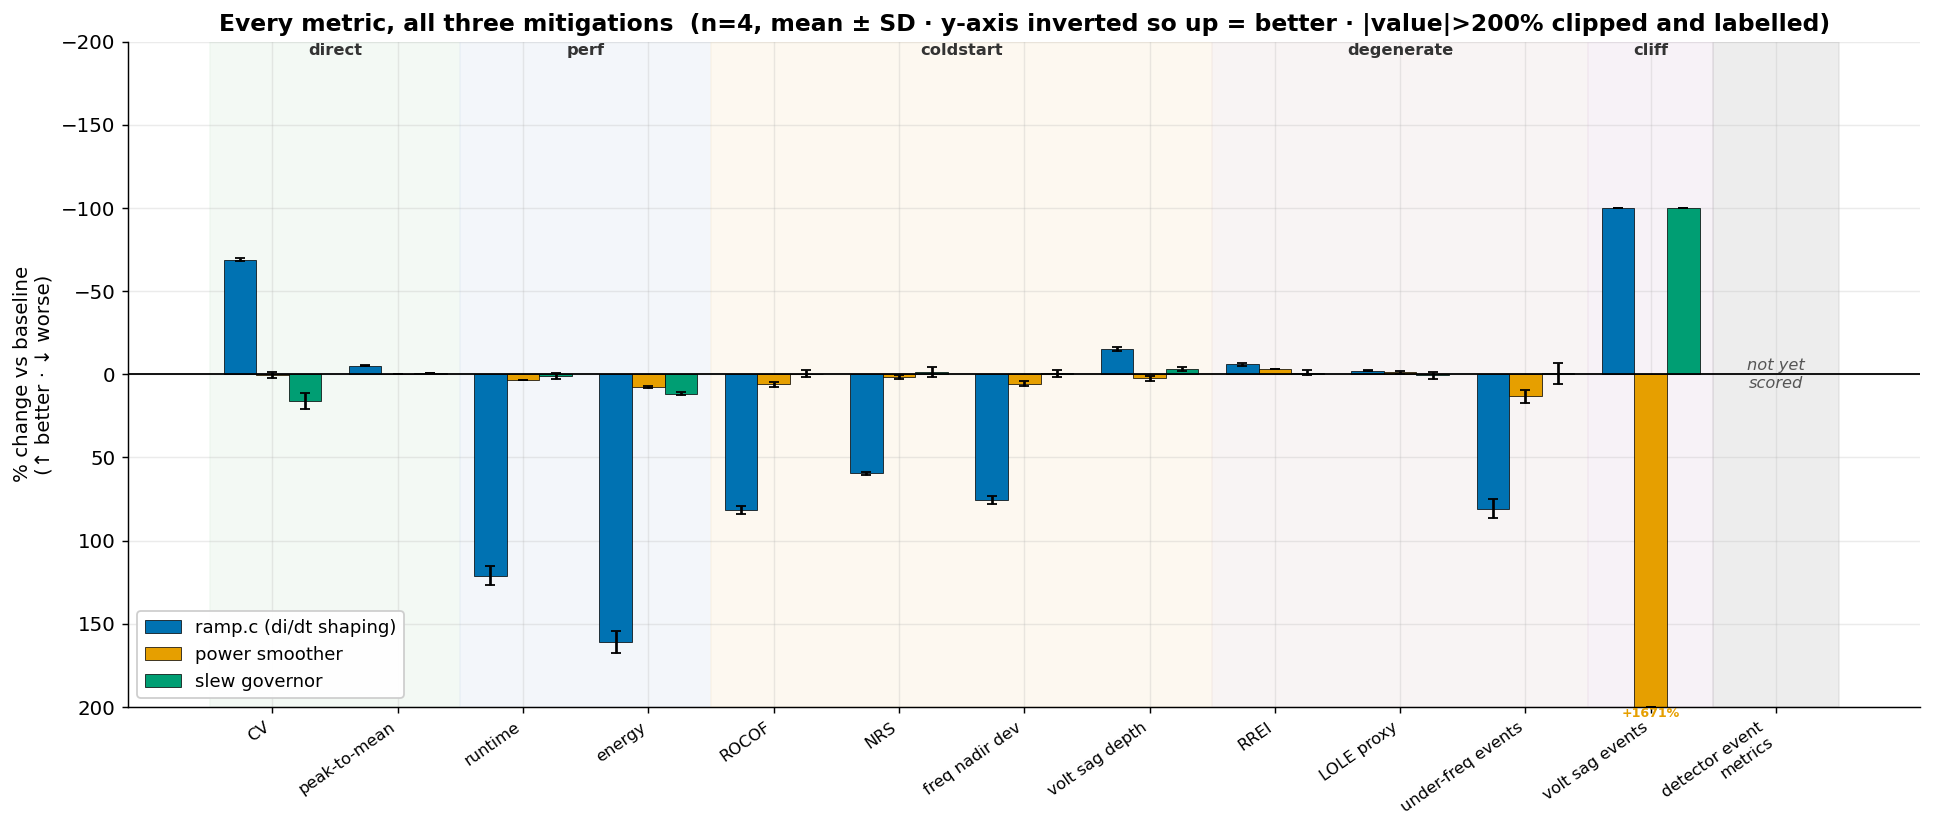
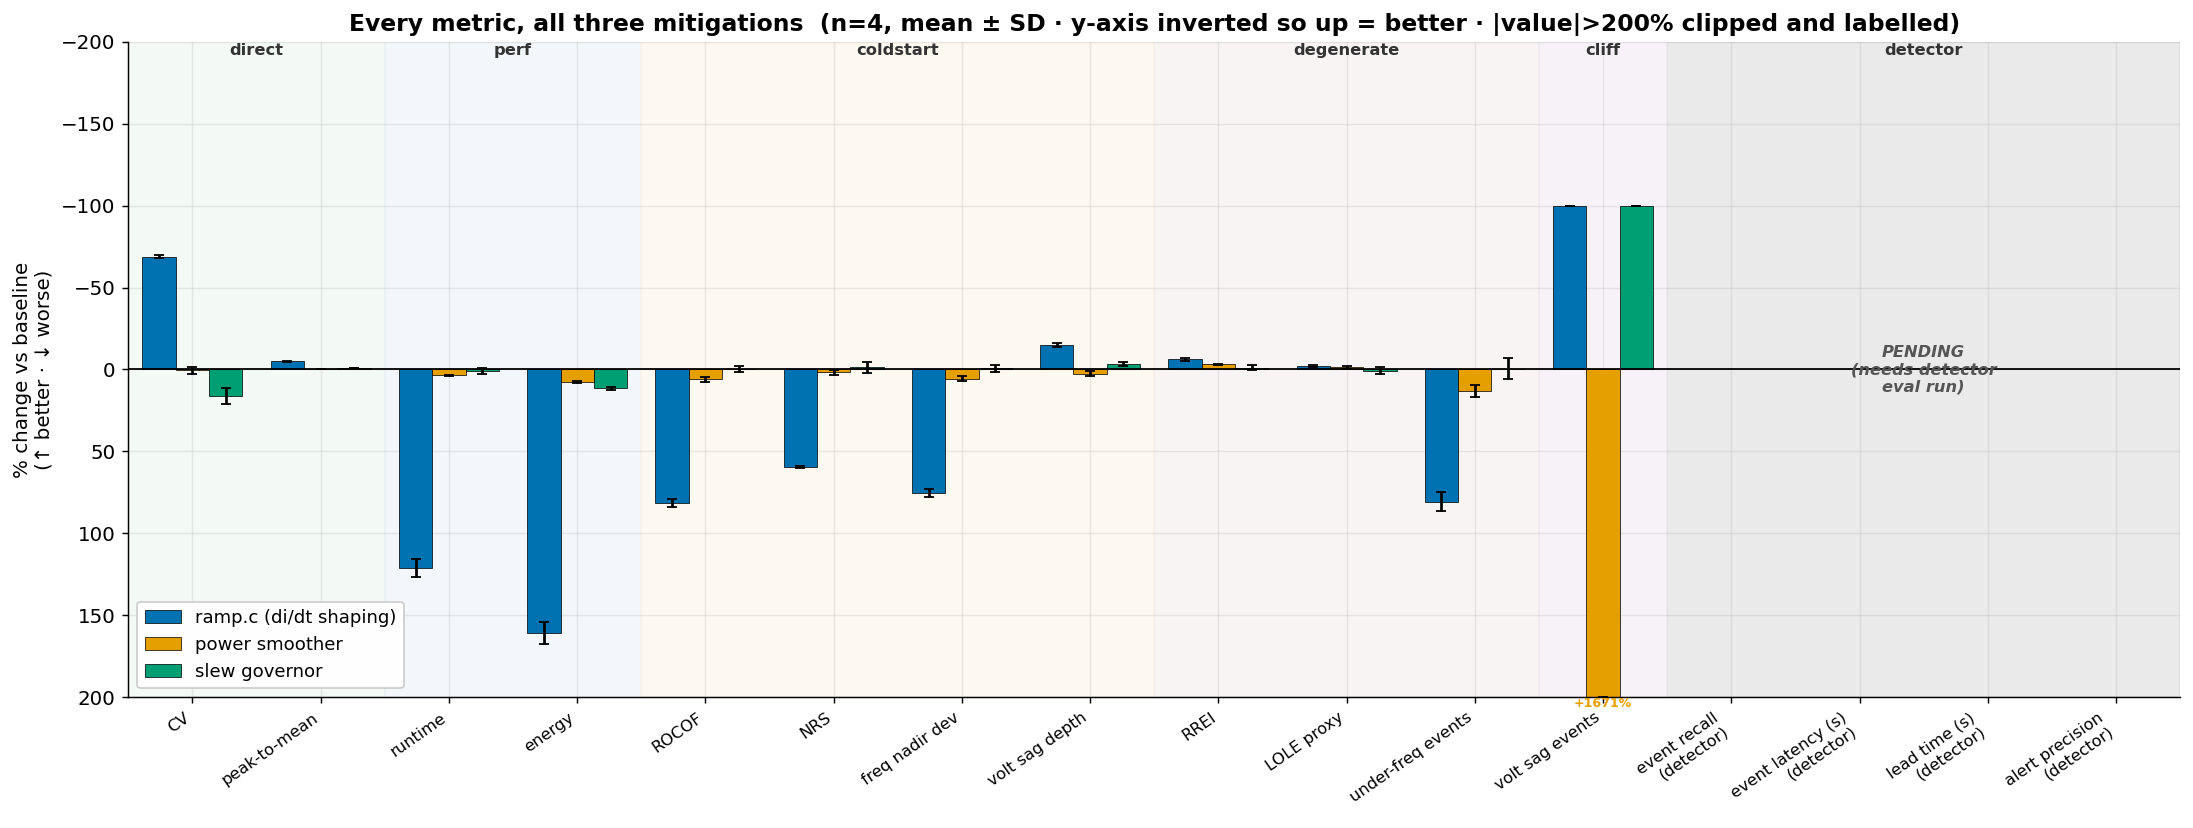
figures: name detector-pending tier; add tradeoff/reproducibility/distribution/PCC
all_metrics.png now names the four pending detector metrics as an explicit
PENDING tier (rank_all.py + full_ranking.csv), and four more paper figures are
added from existing data: tradeoff (cost vs benefit scatter), reproducibility
(4 runs as dots), distribution (power histograms baseline vs ramp.c), and
pcc_timeseries (fleet PCC power, post-UPS).

diff --git a/grid-simulation/figures/make_figures.py b/grid-simulation/figures/make_figures.py
@@ -193,13 +193,15 @@ def fig_all_metrics():
     lower-is-better convention reads as up=good. Outliers past the cap are
     drawn to the edge and labelled. Detector metrics are shown as an explicit
     'not yet scored' slot rather than omitted."""
-    rows = list(csv.DictReader(open(ROOT / "data/summary/full_ranking.csv")))
+    allrows = list(csv.DictReader(open(ROOT / "data/summary/full_ranking.csv")))
     order = ["direct", "perf", "coldstart", "degenerate", "cliff"]
+    rows = [r for r in allrows if r["trust"] in order]          # scored grid+cost
+    det = [r for r in allrows if r["trust"] == "detector"]      # named but pending
     rows.sort(key=lambda r: order.index(r["trust"]))
-    labels = [r["metric"] for r in rows] + ["detector event\nmetrics"]
+    labels = [r["metric"] for r in rows] + [f"{r['metric']}\n(detector)" for r in det]
     n = len(labels)
     CAP = 200.0
-    fig, ax = plt.subplots(figsize=(15, 6.5))
+    fig, ax = plt.subplots(figsize=(17, 6.5))
     width = 0.26
     for i, m in enumerate(MITIG):
         xs = [j + (i - 1) * width for j in range(len(rows))]
@@ -219,11 +221,15 @@ def fig_all_metrics():
                 ax.annotate(f"{true:+.0f}%", (x, v), ha="center",
                             va="top" if v > 0 else "bottom", fontsize=7,
                             color=C[m], fontweight="bold")
-    # detector slot: grey hatch, no data
-    dx = len(rows)
-    ax.axvspan(dx - 0.5, dx + 0.5, color="#bbbbbb", alpha=0.25)
-    ax.text(dx, 0, "not yet\nscored", ha="center", va="center",
-            fontsize=9, color="#555", style="italic")
+    # detector tier: named metrics, greyed, marked pending (need a mycroft eval)
+    if det:
+        lo, hi = len(rows), len(rows) + len(det) - 1
+        ax.axvspan(lo - 0.5, hi + 0.5, color="#bbbbbb", alpha=0.30, zorder=0)
+        ax.text((lo + hi) / 2, 0, "PENDING\n(needs detector\neval run)",
+                ha="center", va="center", fontsize=9, color="#555",
+                style="italic", fontweight="bold")
+        ax.text((lo + hi) / 2, -CAP * 0.96, "detector", ha="center",
+                fontsize=9, color="#333", fontweight="bold")
     # trust-tier shading + labels
     tiers = {}
     for j, r in enumerate(rows):
@@ -236,6 +242,7 @@ def fig_all_metrics():
                 color="#333", fontweight="bold")
     ax.axhline(0, color="black", lw=1)
     ax.set_xticks(range(n)); ax.set_xticklabels(labels, rotation=35, ha="right", fontsize=9)
+    ax.set_xlim(-0.5, n - 0.5)                          # include the detector tier
     ax.set_ylim(-CAP, CAP); ax.invert_yaxis()          # negative (better) points UP
     ax.set_ylabel("% change vs baseline\n(↑ better · ↓ worse)")
     ax.legend(loc="lower left", fontsize=10, framealpha=0.95)
@@ -246,6 +253,107 @@ def fig_all_metrics():
     fig.savefig(FIG / "all_metrics.png"); plt.close(fig)
 
 
+SUMMARY = ROOT / "data" / "summary"
+RUNS_DIR = ROOT / "data" / "runs"
+RESULTS = ROOT / "results"
+
+
+# ── Figure: run-to-run reproducibility (each of the 4 runs as a dot) ───────────
+def fig_reproducibility():
+    """Each dot is one collection's mean-over-workloads; the bar is mean ± SD.
+    Shows CV is tight (robust) while runtime/energy carry the spread."""
+    rows = list(csv.DictReader(open(SUMMARY / "matrix.csv")))
+    metrics = [("cv_pct", "CV (flatness)"), ("runtime_pct", "runtime"),
+               ("energy_pct", "energy")]
+    fig, axes = plt.subplots(1, 3, figsize=(13, 4.5))
+    for ax, (col, title) in zip(axes, metrics):
+        for i, m in enumerate(MITIG):
+            byrun = {}
+            for r in rows:
+                if (r.get("smoother") or r["mitigation"]) == m:
+                    byrun.setdefault(r["run"], []).append(float(r[col]))
+            vals = [statistics.mean(byrun[k]) for k in sorted(byrun)]
+            xs = [i + (j - (len(vals) - 1) / 2) * 0.07 for j in range(len(vals))]
+            ax.scatter(xs, vals, color=C[m], s=48, zorder=3,
+                       edgecolor="black", linewidth=0.4)
+            mean, sd = statistics.mean(vals), statistics.pstdev(vals)
+            ax.errorbar(i, mean, yerr=sd, fmt="_", color="black",
+                        capsize=7, markersize=22, elinewidth=1.4, zorder=2)
+        ax.axhline(0, color="black", lw=0.8)
+        ax.set_xticks(range(len(MITIG)))
+        ax.set_xticklabels(["ramp.c", "smoother", "gov"], rotation=20, ha="right")
+        ax.set_title(title, fontweight="bold"); ax.set_ylabel("% vs baseline")
+    fig.suptitle("Run-to-run reproducibility (n=4): each dot is one collection · "
+                 "CV is tight, cost is the noisy dimension",
+                 fontsize=13, fontweight="bold", y=1.02)
+    fig.tight_layout(); fig.savefig(FIG / "reproducibility.png"); plt.close(fig)
+
+
+# ── Figure: power distribution flattens under ramp.c ──────────────────────────
+def fig_distribution(run="run1"):
+    """Histogram of single-node power: baseline (spread) vs ramp.c plateau
+    (tight). The visual behind the CV-reduction number."""
+    fig, axes = plt.subplots(1, 3, figsize=(13, 4.2))
+    for ax, w in zip(axes, WORKLOADS):
+        bp = [p for _, p in trim_load(RUNS_DIR / run / f"{w}_baseline.csv")]
+        rr = trim_load(RUNS_DIR / run / f"{w}_rampc.csv")
+        a, b, _, _ = detect_window(rr)
+        rp = [p for t, p in rr if a <= t <= b]        # plateau only
+        ax.hist(bp, bins=45, color=C["baseline"], alpha=0.6, density=True,
+                label="baseline")
+        ax.hist(rp, bins=45, color=C["rampc"], alpha=0.6, density=True,
+                label="ramp.c (plateau)")
+        ax.set_title(w, fontweight="bold")
+        ax.set_xlabel("single-node power (W)")
+        if w == WORKLOADS[0]:
+            ax.set_ylabel("density"); ax.legend(fontsize=9)
+    fig.suptitle("Power distribution flattens under ramp.c — baseline is spread, "
+                 "ramp.c is a tight peak (run1)",
+                 fontsize=13, fontweight="bold", y=1.0)
+    fig.tight_layout(); fig.savefig(FIG / "distribution.png"); plt.close(fig)
+
+
+# ── Figure: cost vs benefit scatter (the one-glance summary) ──────────────────
+def fig_tradeoff(sb):
+    fig, ax = plt.subplots(figsize=(7.5, 6))
+    for m in MITIG:
+        x, xe = float(sb[m]["energy_pct"]), float(sb[m]["energy_pct_sd"])
+        y, ye = -float(sb[m]["cv_pct"]), float(sb[m]["cv_pct_sd"])   # benefit
+        ax.errorbar(x, y, xerr=xe, yerr=ye, fmt="o", color=C[m], ms=13,
+                    capsize=4, mec="black", zorder=3)
+        ax.annotate(LABEL[m], (x, y), textcoords="offset points",
+                    xytext=(10, 8), fontsize=10, fontweight="bold")
+    ax.axhline(0, color="grey", lw=0.9, ls="--")
+    ax.axvline(0, color="grey", lw=0.9)
+    ax.set_xlabel("energy cost  (% vs baseline)  →  more expensive")
+    ax.set_ylabel("flatness benefit  (% CV reduction)  →  better")
+    ax.set_title("Cost vs benefit: only ramp.c buys flatness — and it pays for it",
+                 fontweight="bold", fontsize=12)
+    fig.tight_layout(); fig.savefig(FIG / "tradeoff.png"); plt.close(fig)
+
+
+# ── Figure: fleet PCC power (post-UPS) — what the grid actually sees ───────────
+def fig_pcc(run="1"):
+    fig, axes = plt.subplots(3, 1, figsize=(11, 8))
+    for ax, w in zip(axes, WORKLOADS):
+        for cell, color, lab in [("baseline", C["baseline"], "baseline"),
+                                 ("rampc", C["rampc"], "ramp.c")]:
+            p = RESULTS / f"{w}_{cell}_r{run}_worst" / "S_PCC.csv"
+            if not p.exists():
+                continue
+            rows = [(float(r[0]), float(r[1])) for r in csv.reader(open(p)) if len(r) >= 2]
+            ax.plot([t for t, _ in rows], [v / 1e6 for _, v in rows],
+                    color=color, lw=1.0, label=lab)
+        ax.set_ylabel(f"{w}\nPCC power (MW)", fontweight="bold")
+        ax.legend(fontsize=9, loc="upper right", framealpha=0.85)
+    axes[-1].set_xlabel("time (s)")
+    fig.suptitle("Fleet PCC power (10,000 servers, post-15 s-UPS): the grid-facing "
+                 "signal — ramp.c flattens the ripple",
+                 fontsize=13, fontweight="bold", y=0.998)
+    fig.tight_layout(); fig.savefig(FIG / "pcc_timeseries.png"); plt.close(fig)
+
+
+
 if __name__ == "__main__":
     FIG.mkdir(exist_ok=True)
     sb, mat = read_scoreboard(), read_matrix()
@@ -254,4 +362,8 @@ if __name__ == "__main__":
     fig_overlays()
     fig_pipeline()
     fig_all_metrics()
+    fig_reproducibility()
+    fig_distribution()
+    fig_tradeoff(sb)
+    fig_pcc()
     print("wrote:", ", ".join(p.name for p in sorted(FIG.glob("*.png"))))

diff --git a/grid-simulation/analysis/rank_all.py b/grid-simulation/analysis/rank_all.py
@@ -6,7 +6,7 @@ ranks every metric the pipeline emits, per mitigation, mean +/- SD across the 4
 runs, with the winner marked and a trust tag so the reader knows which rankings
 mean something. Nothing is hidden -- but the tag says which to believe.
 
-    python3 analysis/rank_all.py           # -> data/summary/full_ranking.{csv,md}
+    python3 analysis/rank_all.py           # -> data/clean/summary/full_ranking.{csv,md}
     python3 analysis/rank_all.py --selfcheck
 
 Cost (runtime, energy) is the full untrimmed trace; everything else is the
@@ -38,14 +38,20 @@ METRICS = [
     ("under-freq events",  ("frequency", "under_freq_events_per_year"), "degenerate"),
     ("volt sag events",    ("voltage", "voltage_sag_events_per_yr"), "cliff"),
 ]
-TRUST_ORDER = ["direct", "perf", "coldstart", "degenerate", "cliff"]
+TRUST_ORDER = ["direct", "perf", "coldstart", "degenerate", "cliff", "detector"]
 TRUST_NOTE = {
     "direct": "computed straight from the signal — believe the ranking",
     "perf": "real cost (full trace)",
     "coldstart": "dominated by the model's t=0 cold start; needs WARMUP_S=45 to mean anything",
     "degenerate": "no signal — one t=0 exceedance per run makes it ~constant",
     "cliff": "count across a threshold both sides sit ~equal distance from",
+    "detector": "detection quality of usage_edge / RF — NOT YET SCORED "
+                "(needs a mycroft eval run with /proc/stat + onset labels; see RESULTS.md)",
 }
+# Named so the gap is explicit, not a silent omission. Filled by a detector
+# eval run (usage_edge.py / RF evaluator.py), which the power traces can't supply.
+DETECTOR_METRICS = ["event recall", "event latency (s)", "lead time (s)",
+                    "alert precision"]
 
 
 def energy_and_dur(csv_path):
@@ -97,6 +103,9 @@ def rank():
         cand = [(v[0], s) for s, v in per_mitig.items() if v[0] is not None]
         winner = min(cand)[1] if cand else None
         out.append((label, trust, per_mitig, winner))
+    # detector rows: named but unscored, so the scoreboard shows the gap
+    for label in DETECTOR_METRICS:
+        out.append((label, "detector", {m: (None, None) for m in MITIG}, None))
     out.sort(key=lambda r: TRUST_ORDER.index(r[1]))
     return out
 
@@ -112,8 +121,10 @@ def write_csv(rows, out):
         w.writerow(["metric", "trust", "winner"]
                    + [f"{m}_pct" for m in MITIG] + [f"{m}_sd" for m in MITIG])
         for label, trust, pm, winner in rows:
-            w.writerow([label, trust, winner or ""]
-                       + ["" if pm[m][0] is None else round(pm[m][0], 1) for m in MITIG]
+            win = "pending" if trust == "detector" else (winner or "")
+            w.writerow([label, trust, win]
+                       + ["pending" if trust == "detector" else
+                          ("" if pm[m][0] is None else round(pm[m][0], 1)) for m in MITIG]
                        + ["" if pm[m][1] is None else round(pm[m][1], 1) for m in MITIG])
 
 
@@ -132,10 +143,13 @@ def write_md(rows, out):
             last = trust
         cells = []
         for m in MITIG:
-            s = fmt(pm[m])
-            cells.append(f"**{s}**" if m == winner and pm[m][0] is not None else s)
-        L.append(f"| {label} | {trust} | " + " | ".join(cells)
-                 + f" | {winner or '—'} |")
+            if trust == "detector":
+                cells.append("_pending_")
+            else:
+                s = fmt(pm[m])
+                cells.append(f"**{s}**" if m == winner and pm[m][0] is not None else s)
+        win = "_pending_" if trust == "detector" else (winner or "—")
+        L.append(f"| {label} | {trust} | " + " | ".join(cells) + f" | {win} |")
     L += ["", "### Trust tags", ""]
     for t in TRUST_ORDER:
         L.append(f"- **{t}** — {TRUST_NOTE[t]}")

diff --git a/grid-simulation/figures/README.md b/grid-simulation/figures/README.md
@@ -6,7 +6,11 @@ Presentation figures, regenerated from checked-in data with Python + matplotlib
 | File | What it shows |
 |---|---|
 | `scoreboard.png` | The headline. Each mitigation's effect on CV, peak-to-mean, runtime, and energy vs baseline, with n=4 run-to-run error bars. ramp.c is the only one that flattens the load (−69% CV). |
-| `all_metrics.png` | **Every** metric (all 12 grid + cost) × 3 mitigations in one view, grouped by trust tier. Y-axis is inverted so the lower-is-better convention reads as **up = better**; outliers past ±200% are clipped and labelled. The detector-metrics slot is marked "not yet scored" (detector event metrics aren't computed from the power traces — see below). |
+| `tradeoff.png` | One-glance summary: cost (energy) vs benefit (CV reduction) scatter. ramp.c alone sits in the high-benefit corner; the other two are at/below zero benefit. |
+| `all_metrics.png` | **Every** metric (all 12 grid + cost) × 3 mitigations in one view, grouped by trust tier. Y-axis inverted so lower-is-better reads as **up = better**; outliers past ±200% clipped and labelled. The detector tier names its four metrics and is marked PENDING (not computable from power traces — see below). |
+| `reproducibility.png` | Each of the 4 runs as a dot per mitigation (CV / runtime / energy) — CV clusters tight, cost carries the spread. Robustness evidence. |
+| `distribution.png` | Single-node power histograms, baseline (spread) vs ramp.c plateau (tight peak) — the mechanism behind the CV number. |
+| `pcc_timeseries.png` | Fleet PCC power (post-UPS, 10,000 servers) over time, baseline (rippling) vs ramp.c (flat) — what the grid actually sees. |
 | `per_workload.png` | The same effect split by workload — the averages hide that usage-governor nearly doubles aisim2 variability and that ramp.c's energy cost is ~2× on the bursty aisim2 load. |
 | `overlay_<mitigation>.png` | Raw single-node power, baseline vs one mitigation, three workload rows. For ramp.c the trace is **untrimmed and time-aligned** so its plateau starts where baseline starts — the ramp flanks sit in negative time / past the baseline end, and the shaded band is the scored plateau. |
 | `pipeline.png` | The methods schematic: one measured server → 10,000-server fleet → UPS → phasor microgrid → grid-risk metrics. |

diff --git a/grid-simulation/data/summary/full_ranking.md b/grid-simulation/data/summary/full_ranking.md
@@ -21,6 +21,11 @@
 | under-freq events | degenerate | +80.8±5.8 | +13.2±3.8 | **-0.5±6.5** | usagegov |
 | _cliff_ | |  |  |  | |
 | volt sag events | cliff | **-100.0** | +1670.9±2504.4 | -100.0 | rampc |
+| _detector_ | |  |  |  | |
+| event recall | detector | _pending_ | _pending_ | _pending_ | _pending_ |
+| event latency (s) | detector | _pending_ | _pending_ | _pending_ | _pending_ |
+| lead time (s) | detector | _pending_ | _pending_ | _pending_ | _pending_ |
+| alert precision | detector | _pending_ | _pending_ | _pending_ | _pending_ |
 
 ### Trust tags
 
@@ -29,6 +34,7 @@
 - **coldstart** — dominated by the model's t=0 cold start; needs WARMUP_S=45 to mean anything
 - **degenerate** — no signal — one t=0 exceedance per run makes it ~constant
 - **cliff** — count across a threshold both sides sit ~equal distance from
+- **detector** — detection quality of usage_edge / RF — NOT YET SCORED (needs a mycroft eval run with /proc/stat + onset labels; see RESULTS.md)
 
 The headline `scoreboard.csv` ranks on the four `direct`/`perf` rows only. The `coldstart` rows become meaningful with `WARMUP_S=45 scripts/score_all.sh`; `degenerate`/`cliff` rows carry no mitigation signal at worst-case aggregation.
 
